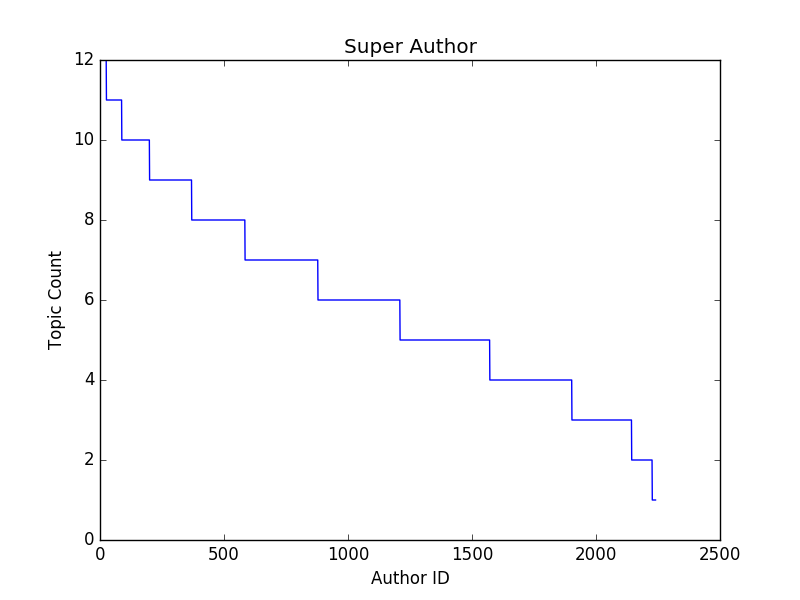
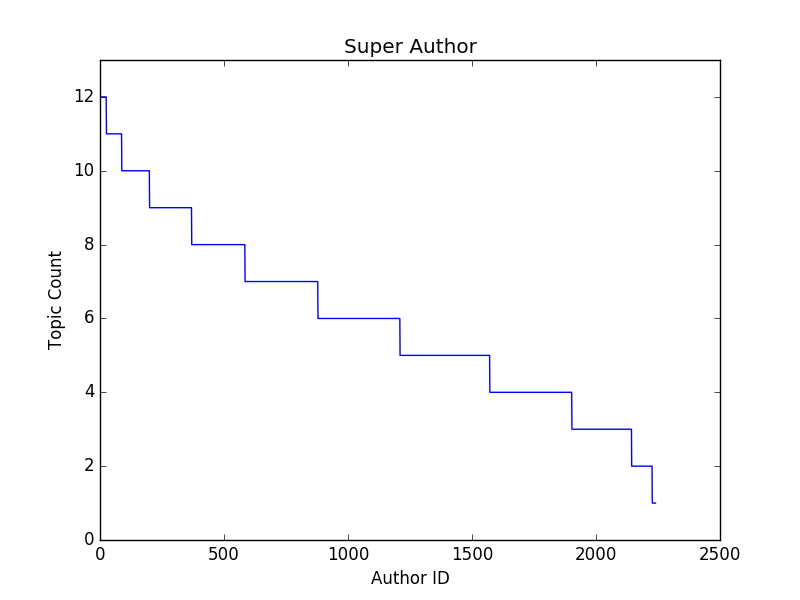
Top successful authors

diff --git a/expts.py b/expts.py
@@ -19,13 +19,30 @@ TOPIC_THRESHOLD = 3
 
 def get_color(index): return str(COLORS[index])
 
-def super_author():
+def top_authors(graph, top_percent = 0.01):
+  authors = graph.get_papers_by_authors()
+  author_cites = []
+  for author_id, papers in authors.items():
+    cite_count = 0
+    for paper_id, _, __ in papers:
+      cited = graph.paper_nodes[paper_id].cites
+      if cited:
+        cite_count += len(cited.split(","))
+    author_cites.append((author_id, cite_count))
+  tops = sorted(author_cites, key=lambda x: x[1], reverse=True)[:int(top_percent*len(author_cites))]
+  return set([t[0] for t in tops])
+
+def super_author(fig_prefix="super_author" ,top_percent=1.00):
   graph = cite_graph()
+  top_authors(graph)
   miner = Miner(graph)
   lda_model, vocab = miner.lda(12, n_iter=100, alpha=0.847433736937, beta=0.763774618977)
   authors = graph.get_papers_by_authors()
   author_topics = {}
+  tops = top_authors(graph, top_percent)
   for author_id, papers in authors.items():
+    if author_id not in tops:
+      continue
     topics = [0]*lda_model.n_topics
     for paper_id, _, __ in papers:
       document = miner.documents[paper_id]
@@ -38,8 +55,9 @@ def super_author():
   plt.ylabel("Topic Count")
   plt.xlabel("Author ID")
   plt.title("Super Author")
+  plt.ylim(min(vals)-1, max(vals)+1)
   plt.plot(x_axis, vals)
-  plt.savefig("figs/super_author.png")
+  plt.savefig("figs/super_author/%s.png"%fig_prefix)
   plt.clf()
   counter = Counter()
   for val in vals:
@@ -52,13 +70,14 @@ def super_author():
   fig, ax = plt.subplots()
   width = 2/3
   ax.bar(bar_x, bar_y, 2/3, color='blue', align='center')
-  ax.set_xticks(np.arange(1,len(bar_x)+1))
-  ax.set_xticklabels(bar_x)
+  ax.set_xticks(np.arange(1,lda_model.n_topics+1))
+  ax.set_xticklabels(np.arange(1,lda_model.n_topics+1))
   for i, v in zip(bar_x,bar_y):
-    ax.text(i, v + 3, str(v), color='red', fontweight='bold', fontsize=7, horizontalalignment='center')
+    ax.text(i, v + 1, str(v), color='red', fontweight='bold', fontsize=7, horizontalalignment='center')
   plt.xlabel("Topics")
   plt.ylabel("Authors Count")
-  plt.savefig("figs/super_author_bar.png")
+  plt.ylim(min(bar_y) - 1, max(bar_y) + 2)
+  plt.savefig("figs/super_author/%s_bar.png"%fig_prefix)
   plt.clf()
   n_top_words = 10
   for index, topic_dist in enumerate(lda_model.topic_word_):
@@ -370,8 +389,9 @@ def topic_evolution():
     print('Topic {}: {}'.format(index, ', '.join(topic_words)))
 
 
-#super_author()
+super_author()
+#super_author("super_author_top", 0.01)
 #conference_evolution()
-conference_diversity()
+#conference_diversity()
 #pc_bias()
 #topic_evolution()
